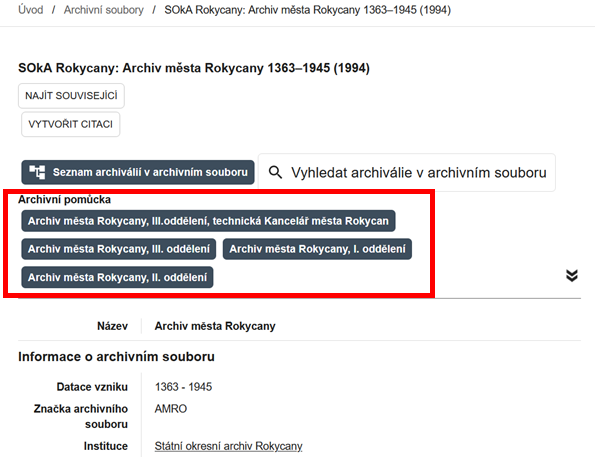
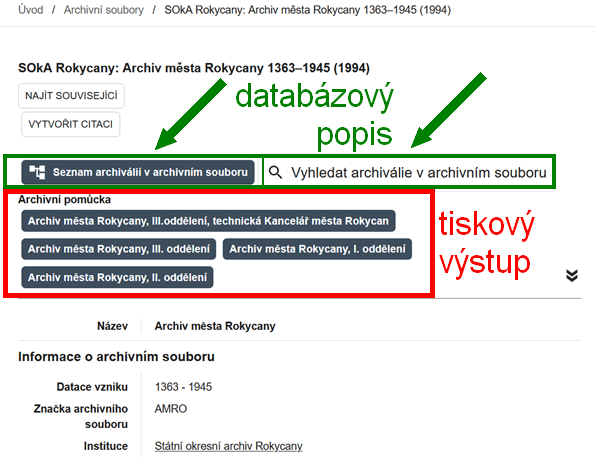
Modified section Archival fonds

Changed region(s): [[0.0, 0.1532, 0.9378, 0.4289], [0.7261, 0.5514, 0.9076, 0.6127], [0.7261, 0.4595, 0.9076, 0.5208]]

diff --git a/docs/sections/section-fund.md b/docs/sections/section-fund.md
@@ -10,7 +10,7 @@ V sekci **:material-sitemap: Archivní soubory** lze vyhledávat a prohlížet p
 
 V levém panelu můžete kombinovat fulltextové vyhledávání a filtry:
 
-- **Obecné vyhledávací pole**: fulltextové vyhledávání v informacích o archivních souborech a o archivních pomůckách – viz [Jak na webu vyhledávat](../help/searching.md). Fulltextové vyhledávání zde **neprohledává obsah pomůcek**, tedy ani seznam archiválií, toho lze docílit hromadně jen v&nbsp;sekci Archiválie nebo v&nbsp;jednotlivých archivních pomůckách po rozkliknutí detailu jednotlivých archivních souborů – podrobněji v kapitole [Archivní pomůcky](#archivni-pomucky).
+- **Obecné vyhledávací pole**: fulltextové vyhledávání v informacích o archivních souborech a o archivních pomůckách – viz [Jak na webu vyhledávat](../help/searching.md). Fulltextové vyhledávání zde **neprohledává obsah pomůcek**, tedy ani seznam archiválií, toho lze docílit hromadně jen v&nbsp;sekci [:material-file-document-multiple: Archiválie](section-archdesc.md) nebo v&nbsp;jednotlivých archivních pomůckách po rozkliknutí detailu jednotlivých archivních souborů – podrobněji v kapitole [Archivní pomůcky](#archivni-pomucky).
 - **Název archivního souboru**: vyhledává v názvech, značkách a číslech archivních souborů (např. „Velkostatek Žinkovy“, značka „Vs Žinkovy“, číslo „20143“).
 - **Datace vzniku**: pokud zúžíme časový rozsah, zobrazí se jen ty archivní soubory, které obsahují alespoň jednu archiválii spadající do uvedeného rozsahu.
 - **Místo vzniku**: obvykle sídlo původce, případně více míst, pokud původce sídlo měnil.
@@ -28,13 +28,20 @@ Výsledky vyhledávání se zobrazují v&nbsp;pravém panelu.
 
 ## Detail archivního souboru
 
-Po kliknutí na vyhledaný záznam se otevře detail archivního souboru s&nbsp;podrobnějšími údaji a s&nbsp;odkazy na související archivní pomůcky v&nbsp;podobě dlaždic nahoře pod nadpisem **Archivní pomůcka**. 
+Po kliknutí na vyhledaný záznam 
 
 ![Postup](./img/fonds-result1.jpg)
 
-![Ukázka záznamu archivního souboru](./img/fonds-detail.png)
+se otevře detail archivního souboru s&nbsp;podrobnějšími údaji o&nbsp;archivním souboru.
+Pokud je archivní soubor nebo jeho část opatřena databázovým popisem, zobrazí se nahoře dlaždice: 
 
-Po kliknutí na dlaždici pod nadpisem **Archivní pomůcka** se zobrazí detail s informacemi o archivní pomůcce a obvykle také její vyhotovení v&nbsp;elektronické podobě ve formátu PDF nebo ve formě naskenovaných stránek strojopisné archivní pomůcky.
+**:material-file-tree: Seznam archiválií v archivním souboru** &nbsp; **:material-magnify: Vyhledat archiválie v archivním souboru** 
+
+Pomocí těchto dlaždic lze přejít na databázový archivní popis tohoto konkrétního archivního souboru, blíže viz [:material-file-document-multiple: Archiválie](section-archdesc.md). 
+
+Pokud je k archivnímu souboru nebo jeho části vydána alespoň jedna schválená archivní pomůcka, zobrazí se pod nadpisem **Archivní pomůcka** jedna nebo více dlaždic. Po kliknutí na dlaždici se zobrazí detail archivní pomůcky a obvykle k&nbsp;prohlížení nebo ke stažení i její obsah – tiskový výstup ve formátu PDF nebo naskenované strojopisné stránky.
+
+![Ukázka záznamu archivního souboru](./img/fonds-detail.png)
 
 ## Archivní pomůcky
 
@@ -47,9 +54,9 @@ Ty mohou být ve třech formách:
 
 ### Naskenované strojopisy
 
-Obvykle starší pomůcky vytvořené na psacím stroji, dostupné jsou jako obrázky. Zatím je nelze fulltextově prohledávat, ale mohou být vzadu opatřeny rejstříkem.
+Starší strojopisné pomůcky dostupné jako naskenované obrázky. Fulltextové vyhledávání zatím není k dispozici, některé pomůcky však na konci obsahují rejstřík.
 
-Po kliknutí na dlaždici pod nadpisem **Archivní pomůcka** se zobrazí detail archivní pomůcky včetně snímků naskenované archivní pomůcky. 
+Po kliknutí na dlaždici pod nadpisem **Archivní pomůcka** se zobrazí detail archivní pomůcky včetně naskenovaných snímků. 
 
 ![Postup](./img/fonds-detail1.jpg)
 
@@ -57,7 +64,7 @@ Po kliknutí na dlaždici pod nadpisem **Archivní pomůcka** se zobrazí detail
 
 ### Soubory ve formátu PDF
 
-Pomůcky pořízené elektronicky v textovém editoru nebo v databázovém systému. Archivní pomůcky ve formátu PDF lze stahovat a prohledávat fulltextem.
+Pomůcky vytvořené elektronicky v textovém editoru nebo databázovém systému. Lze je stahovat a fulltextově prohledávat.
 
 Po kliknutí na dlaždici s názvem archivní pomůcky pod nadpisem **Archivní pomůcka** se zobrazí detail archivní pomůcky. 
 
@@ -69,13 +76,14 @@ V detailu archivní pomůcky se pod nadpisem **Přílohy** objeví dlaždice se 
 
 ### Databázový archivní popis
 
-Po kliknutí na dlaždici s názvem archivní pomůcky pod nadpisem **Archivní pomůcka** se zobrazí detail archivní pomůcky. Stejně jako u ostatních archviních pomůcek může obsahovat tiskový výstup ke stažení ve formátu PDF nebo snímky naskenované starší pomůcky. 
+U archivních souborů zpracovaných v systému ELZA nebo u starších pomůcek přepsaných do databáze ELZA 
+je k&nbsp;dispozici tiskový výstup ke stažení ve formátu PDF nebo naskenované snímky starší pomůcky – stejně jako u ostatních archivních pomůcek.
 
-U archivních souborů zpracovaných v systému ELZA nebo u starších pomůcek přepsaných do databáze ELZA je navíc v detailu **archivního souboru** možné:
+Navíc je v detailu **archivního souboru** možné:
 
-* procházet archivní soubor ve stromové struktuře po kliknutí na dlaždici **:material-file-tree: Seznam archiválií v archivním souboru**.
+* procházet archivní soubor ve stromové struktuře po kliknutí na dlaždici **:material-file-tree: Seznam archiválií v archivním souboru**,
 
-* vyhledávat archiválie fulltextem a pomocí filtrů po kliknutí na dlaždici **:material-magnify: Vyhledat archiválie v archivním souboru**
+* vyhledávat archiválie fulltextem a pomocí filtrů po kliknutí na dlaždici **:material-magnify: Vyhledat archiválie v archivním souboru**.
 
 Podrobněji viz [:material-file-document-multiple: Archiválie](section-archdesc.md).
 
